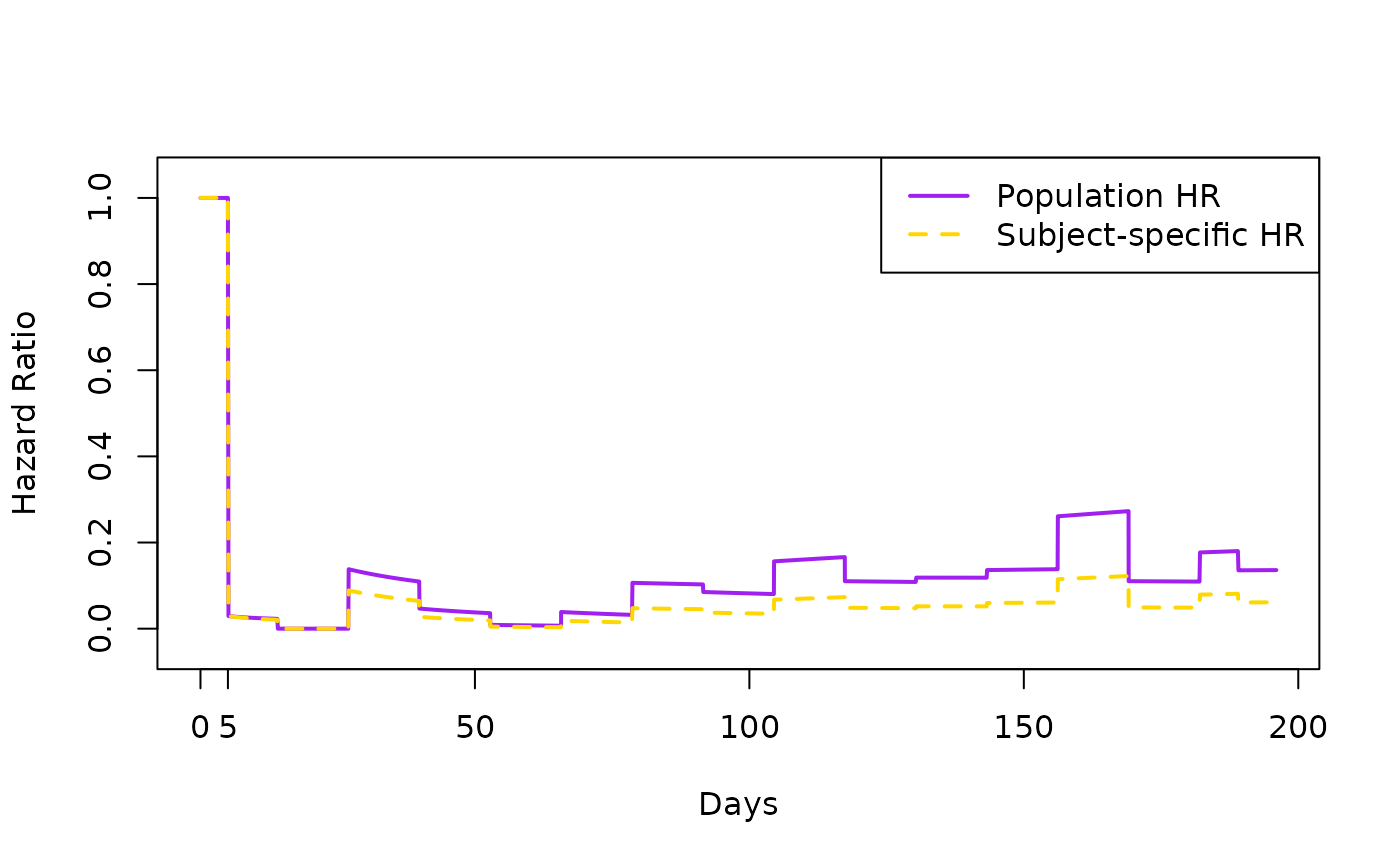
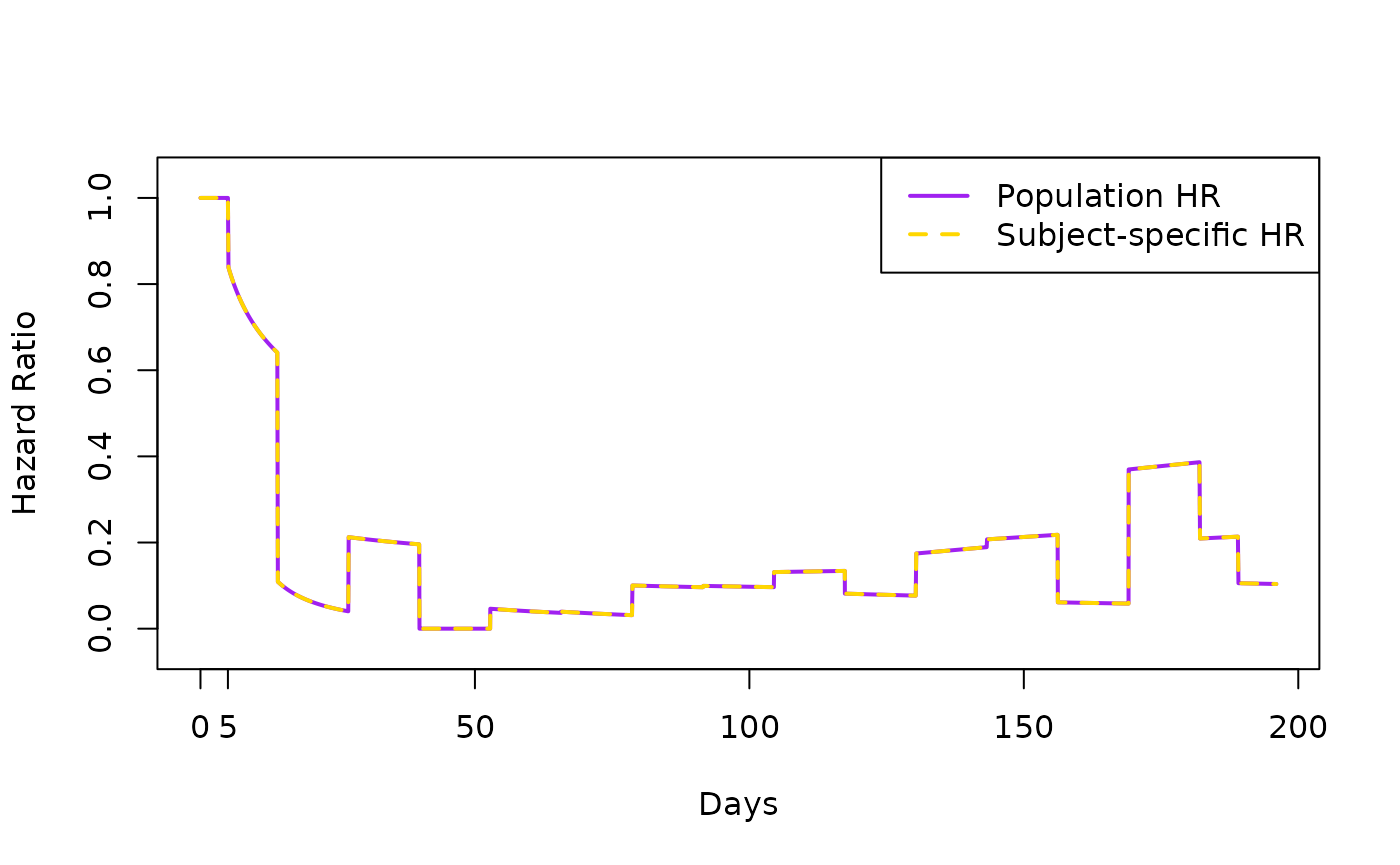
Deploying to gh-pages from @ swihart/mpw@fbb75e37b8437d3f58c3c25b54eb498b8cc61b8f 🚀

Changed region(s): [[0.1536, 0.3121, 0.9214, 0.7491], [0.7064, 0.5931, 0.7986, 0.6243]]

diff --git a/articles/wwps-fay.html b/articles/wwps-fay.html
@@ -74,17 +74,19 @@ Efficacy Estimands for Individual Randomized Field Trials</em>.</p>
 frailty models do not have: that is, the marginal distribution (Weibull)
 is the same as the conditional distribution (also Weibull). This enables
 a strategy of estimating the mpw on the population data without
-specifying an alpha (practically, setting it to 1) and then from there
-one can exactly calculate corresponding conditional models (and HRs, and
-VEs, etc) using
+specifying an
+<math display="inline" xmlns="http://www.w3.org/1998/Math/MathML"><semantics><mi>α</mi><annotation encoding="application/x-tex">\alpha</annotation></semantics></math>
+(this is done in practice by setting <code>alpha=1</code>) and then from
+there one can exactly calculate corresponding conditional models (and
+HRs, and VEs, etc) using
 <math display="inline" xmlns="http://www.w3.org/1998/Math/MathML"><semantics><mfrac><mn>1</mn><mi>α</mi></mfrac><annotation encoding="application/x-tex">\frac{1}{\alpha}</annotation></semantics></math>
 applied to the <em>marginal</em>
 <math display="inline" xmlns="http://www.w3.org/1998/Math/MathML"><semantics><mi>b</mi><annotation encoding="application/x-tex">b</annotation></semantics></math>
 and
 <math display="inline" xmlns="http://www.w3.org/1998/Math/MathML"><semantics><mi>k</mi><annotation encoding="application/x-tex">k</annotation></semantics></math>
 estimates.</p>
-<p>Explicitly, the hazard ratio for an individual
-<math display="inline" xmlns="http://www.w3.org/1998/Math/MathML"><semantics><msub><mi>θ</mi><mi>I</mi></msub><annotation encoding="application/x-tex">\theta_I</annotation></semantics></math>
+<p>Explicitly, the hazard ratio for an individual,
+<math display="inline" xmlns="http://www.w3.org/1998/Math/MathML"><semantics><msub><mi>θ</mi><mi>I</mi></msub><annotation encoding="application/x-tex">\theta_I</annotation></semantics></math>,
 can be produced by:</p>
 <p><math display="block" xmlns="http://www.w3.org/1998/Math/MathML"><semantics><mrow><mfrac><mrow><msubsup><mi>b</mi><mn>1</mn><mrow><mn>1</mn><mi>/</mi><mi>α</mi></mrow></msubsup><mrow><mo stretchy="true" form="prefix">(</mo><msub><mi>k</mi><mn>1</mn></msub><mi>/</mi><mi>α</mi><mo stretchy="true" form="postfix">)</mo></mrow><msup><mi>t</mi><mrow><mrow><mo stretchy="true" form="prefix">(</mo><msub><mi>k</mi><mn>1</mn></msub><mi>/</mi><mi>α</mi><mo stretchy="true" form="postfix">)</mo></mrow><mo>−</mo><mn>1</mn></mrow></msup></mrow><mrow><msubsup><mi>b</mi><mn>0</mn><mrow><mn>1</mn><mi>/</mi><mi>α</mi></mrow></msubsup><mrow><mo stretchy="true" form="prefix">(</mo><msub><mi>k</mi><mn>0</mn></msub><mi>/</mi><mi>α</mi><mo stretchy="true" form="postfix">)</mo></mrow><msup><mi>t</mi><mrow><mrow><mo stretchy="true" form="prefix">(</mo><msub><mi>k</mi><mn>0</mn></msub><mi>/</mi><mi>α</mi><mo stretchy="true" form="postfix">)</mo></mrow><mo>−</mo><mn>1</mn></mrow></msup></mrow></mfrac><mo>=</mo><msub><mi>θ</mi><mi>I</mi></msub></mrow><annotation encoding="application/x-tex">\frac{ b_1^{1/\alpha} (k_1/\alpha) t^{(k_1/\alpha)-1}}{b_0^{1/\alpha} (k_0/\alpha) t^{(k_0/\alpha)-1}} = \theta_I</annotation></semantics></math></p>
 <div class="section level2">
@@ -130,9 +132,11 @@ dots with interpolated, dashed lines.</p>
 <p><img src="wwps-fay_files/figure-html/thomas-data-1.png" width="700"></p>
 <p>Set the <code>h_parm</code> and <code>frailty</code> distribution for
 this example. Beware that H_PARM has different bounds depending on what
-value of FRAILTY is selected.</p>
+value of FRAILTY is selected. For this example, we are going to estimate
+the marginal parameters first and can accomplish this by mitigating the
+effect of alpha, that is, setting the <code>H_PARM=1.00</code>.</p>
 <div class="sourceCode" id="cb2"><pre class="downlit sourceCode r">
-<code class="sourceCode R"><span><span class="va">H_PARM</span> <span class="op">&lt;-</span> <span class="fl">0.72</span></span>
+<code class="sourceCode R"><span><span class="va">H_PARM</span> <span class="op">&lt;-</span> <span class="fl">1.00</span></span>
 <span><span class="va">FRAILTY</span> <span class="op">&lt;-</span> <span class="st">"PS"</span></span></code></pre></div>
 <p>We first consider two knots which will allow us to model each curve
 with three pieces. We set the first piece of each group to be equal so
@@ -144,12 +148,12 @@ to go from then to 90 days after second dose, and the third piece from
 then until the end of the study. We do this by specifying two knot
 values, as below:</p>
 <div class="section level3">
-<h3 id="two-knots">Two knots<a class="anchor" aria-label="anchor" href="#two-knots"></a>
+<h3 id="knot-selection">Knot selection<a class="anchor" aria-label="anchor" href="#knot-selection"></a>
 </h3>
 <div class="sourceCode" id="cb3"><pre class="downlit sourceCode r">
-<code class="sourceCode R"><span><span class="va">tvec.in</span> <span class="op">&lt;-</span> <span class="fu"><a href="https://rdrr.io/r/base/c.html" class="external-link">c</a></span><span class="op">(</span><span class="fl">5</span>, <span class="fl">90</span><span class="op">+</span><span class="fl">21</span><span class="op">)</span></span>
+<code class="sourceCode R"><span><span class="va">tvec.in</span><span class="op">&lt;-</span> <span class="fu"><a href="https://rdrr.io/r/base/c.html" class="external-link">c</a></span><span class="op">(</span><span class="fl">1</span>,<span class="fl">28</span>,<span class="fl">56</span>,<span class="fl">84</span>,<span class="fl">112</span>,<span class="fl">140</span>,<span class="fl">168</span><span class="op">)</span></span>
 <span><span class="va">tvec.in</span></span>
-<span><span class="co">#&gt; [1]   5 111</span></span></code></pre></div>
+<span><span class="co">#&gt; [1]   1  28  56  84 112 140 168</span></span></code></pre></div>
 <div class="section level4">
 <h4 id="two-step-fitting-procedure">Two step fitting procedure<a class="anchor" aria-label="anchor" href="#two-step-fitting-procedure"></a>
 </h4>
@@ -172,14 +176,15 @@ values, as below:</p>
 <span>        control<span class="op">=</span><span class="fu"><a href="https://rdrr.io/r/base/list.html" class="external-link">list</a></span><span class="op">(</span>maxit<span class="op">=</span><span class="fl">1e8</span><span class="op">)</span><span class="op">)</span></span>
 <span><span class="fu"><a href="https://rdrr.io/r/base/print.html" class="external-link">print</a></span><span class="op">(</span><span class="va">plac_fit_F_alpha</span><span class="op">)</span></span>
 <span><span class="co">#&gt; $par</span></span>
-<span><span class="co">#&gt; [1]  -0.8590240 -11.5514302   1.6053115  -0.3700213</span></span>
+<span><span class="co">#&gt; [1]  0.1602199 -9.4498573  0.1816194 -0.6323941  1.1084249 -0.6612064  0.5807145</span></span>
+<span><span class="co">#&gt; [8] -0.8614969  0.2335560</span></span>
 <span><span class="co">#&gt; </span></span>
 <span><span class="co">#&gt; $value</span></span>
-<span><span class="co">#&gt; [1] 1.574351e-06</span></span>
+<span><span class="co">#&gt; [1] 9.918573e-07</span></span>
 <span><span class="co">#&gt; </span></span>
 <span><span class="co">#&gt; $counts</span></span>
 <span><span class="co">#&gt; function gradient </span></span>
-<span><span class="co">#&gt;      167       NA </span></span>
+<span><span class="co">#&gt;      479       NA </span></span>
 <span><span class="co">#&gt; </span></span>
 <span><span class="co">#&gt; $convergence</span></span>
 <span><span class="co">#&gt; [1] 0</span></span>
@@ -215,14 +220,15 @@ same for both groups (i.e. <em>ramp-up time</em>).</p>
 <span>        control<span class="op">=</span><span class="fu"><a href="https://rdrr.io/r/base/list.html" class="external-link">list</a></span><span class="op">(</span>maxit<span class="op">=</span><span class="fl">1e8</span><span class="op">)</span><span class="op">)</span></span>
 <span><span class="fu"><a href="https://rdrr.io/r/base/print.html" class="external-link">print</a></span><span class="op">(</span><span class="va">vacc_fit_F_alpha</span><span class="op">)</span></span>
 <span><span class="co">#&gt; $par</span></span>
-<span><span class="co">#&gt; [1] 0.6274834 0.9321016</span></span>
+<span><span class="co">#&gt; [1] -0.18224579 -0.82329339  0.23464110  1.05260310  0.01773164 -0.06979188</span></span>
+<span><span class="co">#&gt; [7] -0.30021721</span></span>
 <span><span class="co">#&gt; </span></span>
 <span><span class="co">#&gt; $value</span></span>
-<span><span class="co">#&gt; [1] 1.41648e-07</span></span>
+<span><span class="co">#&gt; [1] 6.401134e-08</span></span>
 <span><span class="co">#&gt; </span></span>
 <span><span class="co">#&gt; $counts</span></span>
 <span><span class="co">#&gt; function gradient </span></span>
-<span><span class="co">#&gt;       75       NA </span></span>
+<span><span class="co">#&gt;      436       NA </span></span>
 <span><span class="co">#&gt; </span></span>
 <span><span class="co">#&gt; $convergence</span></span>
 <span><span class="co">#&gt; [1] 0</span></span>
@@ -278,21 +284,54 @@ denote knot placement.</p>
 <span><span class="op">)</span></span>
 <span><span class="fu"><a href="https://rdrr.io/r/graphics/axis.html" class="external-link">axis</a></span><span class="op">(</span><span class="fl">1</span>, at<span class="op">=</span><span class="fu"><a href="https://rdrr.io/r/base/c.html" class="external-link">c</a></span><span class="op">(</span><span class="va">tvec.in</span><span class="op">[</span><span class="fl">1</span><span class="op">]</span><span class="op">)</span><span class="op">)</span></span></code></pre></div>
 <p><img src="wwps-fay_files/figure-html/alpha-02-knots-popavg-dist-1.png" width="700"></p>
-<p>Note from Days 0 to 5 the curves are the same. Over this range the HR
+<p>Note from Days 0 to 1 the curves are the same. Over this range the HR
 will be 1. Otherwise the fit looks okay – some points are below their
 line and some are above.</p>
-</div>
-<div class="section level4">
-<h4 id="plot-population-avg-hr">Plot population avg HR<a class="anchor" aria-label="anchor" href="#plot-population-avg-hr"></a>
-</h4>
-<ul>
-<li>uses parameters from two step fitting procedure</li>
-<li>HR(0) = 1</li>
-</ul>
+<div class="sourceCode" id="cb7"><pre class="downlit sourceCode r">
+<code class="sourceCode R"><span><span class="va">COL</span> <span class="op">&lt;-</span> <span class="fu"><a href="https://rdrr.io/r/base/c.html" class="external-link">c</a></span><span class="op">(</span><span class="st">"black"</span>,<span class="st">"grey"</span><span class="op">)</span></span>
+<span><span class="va">LTY</span> <span class="op">&lt;-</span> <span class="fu"><a href="https://rdrr.io/r/base/c.html" class="external-link">c</a></span><span class="op">(</span><span class="fl">1</span>,<span class="fl">1</span><span class="op">)</span></span>
+<span><span class="va">LWD</span> <span class="op">&lt;-</span> <span class="fu"><a href="https://rdrr.io/r/base/c.html" class="external-link">c</a></span><span class="op">(</span><span class="fl">2</span>,<span class="fl">6</span><span class="op">)</span></span>
+<span><span class="fu"><a href="https://rdrr.io/r/graphics/plot.default.html" class="external-link">plot</a></span><span class="op">(</span><span class="cn">NA</span>,<span class="cn">NA</span>,, type<span class="op">=</span><span class="st">"l"</span>, col<span class="op">=</span><span class="st">"black"</span>, lwd<span class="op">=</span><span class="fl">2</span>, ylim<span class="op">=</span><span class="fu"><a href="https://rdrr.io/r/base/c.html" class="external-link">c</a></span><span class="op">(</span><span class="fl">0</span>,<span class="fl">0.08</span><span class="op">)</span>, ylab<span class="op">=</span><span class="st">"Cumulative Incidence"</span>,xlab<span class="op">=</span><span class="st">"Day since Receipt of First Dose"</span>, </span>
+<span>        main<span class="op">=</span><span class="fu"><a href="https://rdrr.io/r/base/c.html" class="external-link">c</a></span><span class="op">(</span><span class="st">"Specified Knots: "</span>,<span class="fu"><a href="https://rdrr.io/r/base/paste.html" class="external-link">paste</a></span><span class="op">(</span><span class="fu"><a href="https://rdrr.io/r/base/Round.html" class="external-link">round</a></span><span class="op">(</span><span class="va">tvec.in</span>,<span class="fl">1</span><span class="op">)</span>, collapse<span class="op">=</span><span class="st">", "</span><span class="op">)</span><span class="op">)</span>, xlim<span class="op">=</span><span class="fu"><a href="https://rdrr.io/r/base/range.html" class="external-link">range</a></span><span class="op">(</span><span class="va">time</span><span class="op">)</span><span class="op">)</span></span>
+<span></span>
+<span></span>
+<span><span class="va">plac.dist</span> <span class="op">&lt;-</span> <span class="fu"><a href="../reference/popavg_dist.html">popavg_dist</a></span><span class="op">(</span>      x <span class="op">=</span> <span class="va">time.dist</span>, </span>
+<span>                           knots <span class="op">=</span> <span class="va">tvec.in</span>,</span>
+<span>                           logk0 <span class="op">=</span> <span class="va">logk0p</span>,</span>
+<span>                              g0 <span class="op">=</span> <span class="va">g0p</span>,</span>
+<span>                       delta_vec <span class="op">=</span> <span class="va">delta_vec_p</span>,</span>
+<span>                          h_parm <span class="op">=</span> <span class="va">H_PARM</span>,</span>
+<span>                         frailty <span class="op">=</span> <span class="va">FRAILTY</span><span class="op">)</span></span>
+<span></span>
+<span><span class="va">vacc.dist</span> <span class="op">&lt;-</span> <span class="fu"><a href="../reference/popavg_dist.html">popavg_dist</a></span><span class="op">(</span>      x <span class="op">=</span> <span class="va">time.dist</span>, </span>
+<span>                           knots <span class="op">=</span> <span class="va">tvec.in</span>,</span>
+<span>                           logk0 <span class="op">=</span> <span class="va">logk0v</span>,</span>
+<span>                              g0 <span class="op">=</span> <span class="va">g0v</span>,</span>
+<span>                       delta_vec <span class="op">=</span> <span class="va">delta_vec_v</span>,</span>
+<span>                          h_parm <span class="op">=</span> <span class="va">H_PARM</span>,</span>
+<span>                         frailty <span class="op">=</span> <span class="va">FRAILTY</span><span class="op">)</span></span>
+<span></span>
+<span></span>
+<span></span>
+<span>  <span class="fu"><a href="https://rdrr.io/r/graphics/lines.html" class="external-link">lines</a></span><span class="op">(</span><span class="fu"><a href="https://rdrr.io/r/base/c.html" class="external-link">c</a></span><span class="op">(</span><span class="fl">0</span>,<span class="va">time.dist</span><span class="op">)</span>, <span class="fu"><a href="https://rdrr.io/r/base/c.html" class="external-link">c</a></span><span class="op">(</span><span class="fl">0</span>,<span class="va">vacc.dist</span><span class="op">)</span>,  col<span class="op">=</span><span class="va">COL</span><span class="op">[</span><span class="fl">2</span><span class="op">]</span>,lty<span class="op">=</span><span class="va">LTY</span><span class="op">[</span><span class="fl">2</span><span class="op">]</span>,lwd<span class="op">=</span><span class="va">LWD</span><span class="op">[</span><span class="fl">2</span><span class="op">]</span><span class="op">)</span></span>
+<span></span>
+<span></span>
+<span></span>
+<span><span class="fu"><a href="https://rdrr.io/r/graphics/points.html" class="external-link">points</a></span><span class="op">(</span><span class="va">time</span>, <span class="va">F1</span>, col<span class="op">=</span><span class="st">"blue"</span><span class="op">)</span></span>
+<span><span class="fu"><a href="https://rdrr.io/r/graphics/abline.html" class="external-link">abline</a></span><span class="op">(</span>v<span class="op">=</span><span class="va">tvec.in</span>, lty<span class="op">=</span><span class="fl">2</span>, col<span class="op">=</span><span class="st">"grey"</span><span class="op">)</span></span>
+<span></span>
+<span><span class="fu"><a href="https://rdrr.io/r/graphics/points.html" class="external-link">points</a></span><span class="op">(</span><span class="va">time</span>, <span class="va">F0</span>, col<span class="op">=</span><span class="st">"black"</span><span class="op">)</span></span>
+<span></span>
+<span>  <span class="fu"><a href="https://rdrr.io/r/graphics/lines.html" class="external-link">lines</a></span><span class="op">(</span><span class="fu"><a href="https://rdrr.io/r/base/c.html" class="external-link">c</a></span><span class="op">(</span><span class="fl">0</span>,<span class="va">time.dist</span><span class="op">)</span>, <span class="fu"><a href="https://rdrr.io/r/base/c.html" class="external-link">c</a></span><span class="op">(</span><span class="fl">0</span>,<span class="va">plac.dist</span><span class="op">)</span>,  col<span class="op">=</span><span class="va">COL</span><span class="op">[</span><span class="fl">1</span><span class="op">]</span>,lty<span class="op">=</span><span class="va">LTY</span><span class="op">[</span><span class="fl">1</span><span class="op">]</span>,lwd<span class="op">=</span><span class="va">LWD</span><span class="op">[</span><span class="fl">1</span><span class="op">]</span><span class="op">)</span></span>
+<span><span class="fu"><a href="https://rdrr.io/r/graphics/legend.html" class="external-link">legend</a></span><span class="op">(</span><span class="st">"topleft"</span>,legend<span class="op">=</span><span class="fu"><a href="https://rdrr.io/r/base/c.html" class="external-link">c</a></span><span class="op">(</span><span class="fu"><a href="https://rdrr.io/r/base/expression.html" class="external-link">expression</a></span><span class="op">(</span><span class="cn">F</span><span class="op">[</span><span class="fl">0</span><span class="op">]</span><span class="op">(</span><span class="va">t</span><span class="op">)</span><span class="op">)</span>,<span class="fu"><a href="https://rdrr.io/r/base/expression.html" class="external-link">expression</a></span><span class="op">(</span><span class="cn">F</span><span class="op">[</span><span class="fl">1</span><span class="op">]</span><span class="op">(</span><span class="va">t</span><span class="op">)</span><span class="op">)</span><span class="op">)</span>,col<span class="op">=</span><span class="va">COL</span>,</span>
+<span>       lty<span class="op">=</span><span class="va">LTY</span>,lwd<span class="op">=</span><span class="va">LWD</span><span class="op">)</span></span></code></pre></div>
+<p><img src="wwps-fay_files/figure-html/unnamed-chunk-3-1.png" width="700">
+### Plot population avg HR * uses parameters from two step fitting
+procedure * HR(0) = 1</p>
 <p>We use the parameters of the previous fits to estimate the population
 average hazard, which we can fit with <code><a href="../reference/popavg_haz.html">mpw::popavg_haz()</a></code>. We
 adjust the time input so that the first element is just above 0.</p>
-<div class="sourceCode" id="cb7"><pre class="downlit sourceCode r">
+<div class="sourceCode" id="cb8"><pre class="downlit sourceCode r">
 <code class="sourceCode R"><span><span class="va">time.haz</span> <span class="op">&lt;-</span> <span class="fu"><a href="https://rdrr.io/r/base/c.html" class="external-link">c</a></span><span class="op">(</span><span class="fl">1e-4</span>, <span class="va">time.dist</span><span class="op">[</span><span class="op">-</span><span class="fl">1</span><span class="op">]</span><span class="op">)</span></span>
 <span><span class="va">plac.haz</span> <span class="op">&lt;-</span> <span class="fu"><a href="../reference/popavg_haz.html">popavg_haz</a></span><span class="op">(</span>      x <span class="op">=</span> <span class="va">time.haz</span>, </span>
 <span>                           knots <span class="op">=</span> <span class="va">tvec.in</span>,</span>
@@ -330,7 +369,7 @@ the inputs for the b,k, and delta pieces and models the subject-specific
 (aka conditional) hazard. Doing this for the placebo group, then the
 vaccine group and dividing them gives the subject-specific hazard ratio
 (HR).</p>
-<div class="sourceCode" id="cb8"><pre class="downlit sourceCode r">
+<div class="sourceCode" id="cb9"><pre class="downlit sourceCode r">
 <code class="sourceCode R"><span><span class="va">plac.haz.ss</span> <span class="op">&lt;-</span> <span class="fu"><a href="../reference/subjspec_haz.html">subjspec_haz</a></span><span class="op">(</span>      x <span class="op">=</span> <span class="va">time.haz</span>, </span>
 <span>                           knots <span class="op">=</span> <span class="va">tvec.in</span>,</span>
 <span>                           logk0 <span class="op">=</span> <span class="va">logk0p</span>,</span>
@@ -356,9 +395,51 @@ vaccine group and dividing them gives the subject-specific hazard ratio
 <span>       lwd<span class="op">=</span><span class="fl">2</span></span>
 <span><span class="op">)</span></span></code></pre></div>
 <p><img src="wwps-fay_files/figure-html/alpha-02-knots-subjspec-haz-1.png" width="700"></p>
-<p>The plot above shows that for a positive-stable frailty with
+<div class="sourceCode" id="cb10"><pre class="downlit sourceCode r">
+<code class="sourceCode R"><span><span class="va">COL</span><span class="op">&lt;-</span> <span class="fu"><a href="https://rdrr.io/r/grDevices/gray.html" class="external-link">gray</a></span><span class="op">(</span><span class="fu"><a href="https://rdrr.io/r/base/c.html" class="external-link">c</a></span><span class="op">(</span><span class="fl">0.7</span>,<span class="fl">.5</span>,<span class="fl">0</span><span class="op">)</span><span class="op">)</span></span>
+<span><span class="va">LTY</span><span class="op">&lt;-</span><span class="fu"><a href="https://rdrr.io/r/base/c.html" class="external-link">c</a></span><span class="op">(</span><span class="fl">1</span>,<span class="fl">2</span>,<span class="fl">3</span><span class="op">)</span></span>
+<span><span class="va">LWD</span><span class="op">&lt;-</span><span class="fu"><a href="https://rdrr.io/r/base/c.html" class="external-link">c</a></span><span class="op">(</span><span class="fl">6</span>,<span class="fl">4</span>,<span class="fl">2</span><span class="op">)</span></span>
+<span></span>
+<span><span class="fu"><a href="https://rdrr.io/r/graphics/plot.default.html" class="external-link">plot</a></span><span class="op">(</span><span class="cn">NA</span>,<span class="cn">NA</span>,, type<span class="op">=</span><span class="st">"l"</span>, col<span class="op">=</span><span class="st">"black"</span>, lwd<span class="op">=</span><span class="fl">2</span>, ylim<span class="op">=</span><span class="fu"><a href="https://rdrr.io/r/base/c.html" class="external-link">c</a></span><span class="op">(</span><span class="fl">0</span>,<span class="fl">1</span><span class="op">)</span>, ylab<span class="op">=</span><span class="fu"><a href="https://rdrr.io/r/base/expression.html" class="external-link">expression</a></span><span class="op">(</span><span class="va">VE</span><span class="op">[</span><span class="va">h</span><span class="op">]</span><span class="op">)</span>,xlab<span class="op">=</span><span class="st">"Days since Receipt of First Dose"</span>, main<span class="op">=</span><span class="fu"><a href="https://rdrr.io/r/base/c.html" class="external-link">c</a></span><span class="op">(</span><span class="st">"Specified knots: "</span>,<span class="fu"><a href="https://rdrr.io/r/base/paste.html" class="external-link">paste</a></span><span class="op">(</span><span class="fu"><a href="https://rdrr.io/r/base/Round.html" class="external-link">round</a></span><span class="op">(</span><span class="va">tvec.in</span>,<span class="fl">1</span><span class="op">)</span>, collapse<span class="op">=</span><span class="st">", "</span><span class="op">)</span><span class="op">)</span>, xlim<span class="op">=</span><span class="fu"><a href="https://rdrr.io/r/base/range.html" class="external-link">range</a></span><span class="op">(</span><span class="va">time</span><span class="op">)</span><span class="op">)</span></span>
+<span></span>
+<span><span class="co">##set alpha.vec here to plot different conditionals</span></span>
+<span><span class="va">alpha.vec</span> <span class="op">&lt;-</span> <span class="fu"><a href="https://rdrr.io/r/base/c.html" class="external-link">c</a></span><span class="op">(</span><span class="fl">0.4</span>,<span class="fl">0.7</span>,<span class="fl">0.99</span><span class="op">)</span></span>
+<span></span>
+<span><span class="co">## now plot</span></span>
+<span><span class="kw">for</span><span class="op">(</span><span class="va">i</span> <span class="kw">in</span> <span class="fl">1</span><span class="op">:</span><span class="fu"><a href="https://rdrr.io/r/base/length.html" class="external-link">length</a></span><span class="op">(</span><span class="va">alpha.vec</span><span class="op">)</span><span class="op">)</span><span class="op">{</span></span>
+<span>  </span>
+<span>  </span>
+<span>  <span class="va">a.in</span> <span class="op">&lt;-</span> <span class="va">alpha.vec</span><span class="op">[</span><span class="va">i</span><span class="op">]</span></span>
+<span>  </span>
+<span></span>
+<span><span class="va">plac.haz</span> <span class="op">&lt;-</span> <span class="fu"><a href="../reference/popavg_haz.html">popavg_haz</a></span><span class="op">(</span>      x <span class="op">=</span> <span class="va">time.haz</span>, </span>
+<span>                           knots <span class="op">=</span> <span class="va">tvec.in</span>,</span>
+<span>                           logk0 <span class="op">=</span> <span class="va">logk0p</span>,</span>
+<span>                              g0 <span class="op">=</span> <span class="va">g0p</span>,</span>
+<span>                       delta_vec <span class="op">=</span> <span class="va">delta_vec_p</span>,</span>
+<span>                          h_parm <span class="op">=</span> <span class="fl">1</span><span class="op">/</span><span class="va">a.in</span>,</span>
+<span>                         frailty <span class="op">=</span> <span class="va">FRAILTY</span><span class="op">)</span></span>
+<span></span>
+<span><span class="va">vacc.haz</span> <span class="op">&lt;-</span> <span class="fu"><a href="../reference/popavg_haz.html">popavg_haz</a></span><span class="op">(</span>      x <span class="op">=</span> <span class="va">time.haz</span>, </span>
+<span>                           knots <span class="op">=</span> <span class="va">tvec.in</span>,</span>
+<span>                           logk0 <span class="op">=</span> <span class="va">logk0v</span>,</span>
+<span>                              g0 <span class="op">=</span> <span class="va">g0v</span>,</span>
+<span>                       delta_vec <span class="op">=</span> <span class="va">delta_vec_v</span>,</span>
+<span>                          h_parm <span class="op">=</span> <span class="fl">1</span><span class="op">/</span><span class="va">a.in</span>,</span>
+<span>                         frailty <span class="op">=</span> <span class="va">FRAILTY</span><span class="op">)</span></span>
+<span></span>
+<span></span>
+<span></span>
+<span><span class="fu"><a href="https://rdrr.io/r/graphics/lines.html" class="external-link">lines</a></span><span class="op">(</span><span class="va">time.haz</span>, <span class="fl">1</span><span class="op">-</span><span class="va">vacc.haz</span><span class="op">/</span><span class="va">plac.haz</span>, col<span class="op">=</span><span class="va">COL</span><span class="op">[</span><span class="va">i</span><span class="op">]</span>,lty<span class="op">=</span><span class="va">LTY</span><span class="op">[</span><span class="va">i</span><span class="op">]</span>,lwd<span class="op">=</span><span class="va">LWD</span><span class="op">[</span><span class="va">i</span><span class="op">]</span><span class="op">)</span></span>
+<span></span>
+<span><span class="fu"><a href="https://rdrr.io/r/graphics/abline.html" class="external-link">abline</a></span><span class="op">(</span>v<span class="op">=</span><span class="va">tvec.in</span>, lty<span class="op">=</span><span class="fl">2</span>, col<span class="op">=</span><span class="st">"grey"</span><span class="op">)</span></span>
+<span></span>
+<span><span class="op">}</span></span>
+<span><span class="fu"><a href="https://rdrr.io/r/graphics/legend.html" class="external-link">legend</a></span><span class="op">(</span><span class="st">"bottomright"</span>,legend<span class="op">=</span><span class="fu"><a href="https://rdrr.io/r/base/paste.html" class="external-link">paste0</a></span><span class="op">(</span><span class="st">"alpha="</span>,<span class="va">alpha.vec</span><span class="op">)</span>,lty<span class="op">=</span><span class="va">LTY</span>,lwd<span class="op">=</span><span class="va">LWD</span>,col<span class="op">=</span><span class="va">COL</span><span class="op">)</span></span></code></pre></div>
+<p><img src="wwps-fay_files/figure-html/unnamed-chunk-4-1.png" width="700">
+The plot above shows that for a positive-stable frailty with
 <math display="inline" xmlns="http://www.w3.org/1998/Math/MathML"><semantics><mi>α</mi><annotation encoding="application/x-tex">\alpha</annotation></semantics></math>
-= 0.72 the subject-specific HR is flatter and lower than the population
+= 1 the subject-specific HR is flatter and lower than the population
 average HR.</p>
 </div>
 </div>
@@ -366,7 +447,7 @@ average HR.</p>
 <h3 id="sixteen-knots">Sixteen knots<a class="anchor" aria-label="anchor" href="#sixteen-knots"></a>
 </h3>
 <p>By increasing the knots, we get a “higher resolution” fit.</p>
-<div class="sourceCode" id="cb9"><pre class="downlit sourceCode r">
+<div class="sourceCode" id="cb11"><pre class="downlit sourceCode r">
 <code class="sourceCode R"><span><span class="va">tvec.in</span> <span class="op">&lt;-</span> <span class="fu"><a href="https://rdrr.io/r/base/c.html" class="external-link">c</a></span><span class="op">(</span><span class="fl">5</span>, <span class="fu"><a href="https://rdrr.io/r/base/seq.html" class="external-link">seq</a></span><span class="op">(</span><span class="fl">14</span>,<span class="fu"><a href="https://rdrr.io/r/base/Extremes.html" class="external-link">max</a></span><span class="op">(</span><span class="va">time</span><span class="op">)</span><span class="op">-</span><span class="fl">14</span>,length.out<span class="op">=</span><span class="fl">14</span><span class="op">)</span>,<span class="fu"><a href="https://rdrr.io/r/base/Extremes.html" class="external-link">max</a></span><span class="op">(</span><span class="va">time</span><span class="op">)</span><span class="op">-</span><span class="fl">7</span><span class="op">)</span></span>
 <span><span class="va">tvec.in</span></span>
 <span><span class="co">#&gt;  [1]   5.00000  14.00000  26.92308  39.84615  52.76923  65.69231  78.61538</span></span>
@@ -378,7 +459,7 @@ average HR.</p>
 <div class="section level5">
 <h5 id="fit-for-placebo-group-1">1. Fit for placebo group<a class="anchor" aria-label="anchor" href="#fit-for-placebo-group-1"></a>
 </h5>
-<div class="sourceCode" id="cb10"><pre class="downlit sourceCode r">
+<div class="sourceCode" id="cb12"><pre class="downlit sourceCode r">
 <code class="sourceCode R"><span><span class="va">fit_F_alpha</span> <span class="op">&lt;-</span> <span class="kw">function</span><span class="op">(</span><span class="va">x</span><span class="op">)</span><span class="op">{</span><span class="fu"><a href="https://rdrr.io/r/base/mean.html" class="external-link">mean</a></span><span class="op">(</span><span class="op">(</span><span class="fu"><a href="../reference/popavg_dist.html">popavg_dist</a></span><span class="op">(</span><span class="va">time</span>, </span>
 <span>                                            knots<span class="op">=</span> <span class="va">tvec.in</span>, </span>
 <span>                                            logk0<span class="op">=</span><span class="va">x</span><span class="op">[</span><span class="fl">1</span><span class="op">]</span>, </span>
@@ -394,17 +475,17 @@ average HR.</p>
 <span>        control<span class="op">=</span><span class="fu"><a href="https://rdrr.io/r/base/list.html" class="external-link">list</a></span><span class="op">(</span>maxit<span class="op">=</span><span class="fl">1e8</span><span class="op">)</span><span class="op">)</span></span>
 <span><span class="fu"><a href="https://rdrr.io/r/base/print.html" class="external-link">print</a></span><span class="op">(</span><span class="va">plac_fit_F_alpha</span><span class="op">)</span></span>
 <span><span class="co">#&gt; $par</span></span>
-<span><span class="co">#&gt;  [1]  -0.19809428 -10.00290490  -0.46528979   1.50975780  -0.41049204</span></span>
-<span><span class="co">#&gt;  [6]   0.13659323   0.10835991   0.26344501   0.18239172  -0.08269246</span></span>
-<span><span class="co">#&gt; [11]  -0.07470972   0.19303094   0.05622029  -0.55575772  -0.99909140</span></span>
-<span><span class="co">#&gt; [16]   0.53537197   0.38629201   0.88779139</span></span>
+<span><span class="co">#&gt;  [1]   0.38971930 -10.32381630   0.21859730   0.10018897  -0.90797553</span></span>
+<span><span class="co">#&gt;  [6]   0.01855282   0.48054002   0.30894982  -0.32833967  -0.03767899</span></span>
+<span><span class="co">#&gt; [11]   0.06950149   0.40359349  -0.25004062  -0.72231152   0.35355534</span></span>
+<span><span class="co">#&gt; [16]  -0.88585346   0.57072242   1.75844956</span></span>
 <span><span class="co">#&gt; </span></span>
 <span><span class="co">#&gt; $value</span></span>
-<span><span class="co">#&gt; [1] 2.366405e-07</span></span>
+<span><span class="co">#&gt; [1] 4.527595e-07</span></span>
 <span><span class="co">#&gt; </span></span>
 <span><span class="co">#&gt; $counts</span></span>
 <span><span class="co">#&gt; function gradient </span></span>
-<span><span class="co">#&gt;      909       NA </span></span>
+<span><span class="co">#&gt;      961       NA </span></span>
 <span><span class="co">#&gt; </span></span>
 <span><span class="co">#&gt; $convergence</span></span>
 <span><span class="co">#&gt; [1] 0</span></span>
@@ -424,7 +505,7 @@ that control the first (leftmost) piece for the placebo group and use
 them for <code>logk0v</code> and <code>g0v</code> when estimating the
 pieces for the vaccine group. This forces the first pieces to be the
 same for both groups (i.e. <em>ramp-up time</em>).</p>
-<div class="sourceCode" id="cb11"><pre class="downlit sourceCode r">
+<div class="sourceCode" id="cb13"><pre class="downlit sourceCode r">
 <code class="sourceCode R"><span><span class="va">fit_F_alpha</span> <span class="op">&lt;-</span> <span class="kw">function</span><span class="op">(</span><span class="va">x</span><span class="op">)</span><span class="op">{</span><span class="fu"><a href="https://rdrr.io/r/base/mean.html" class="external-link">mean</a></span><span class="op">(</span><span class="op">(</span><span class="fu"><a href="../reference/popavg_dist.html">popavg_dist</a></span><span class="op">(</span><span class="va">time</span>, </span>
 <span>                                            knots<span class="op">=</span> <span class="va">tvec.in</span>, </span>
 <span>                                            logk0<span class="op">=</span><span class="va">logk0p</span>, </span>
@@ -440,16 +521,16 @@ same for both groups (i.e. <em>ramp-up time</em>).</p>
 <span>        control<span class="op">=</span><span class="fu"><a href="https://rdrr.io/r/base/list.html" class="external-link">list</a></span><span class="op">(</span>maxit<span class="op">=</span><span class="fl">1e8</span><span class="op">)</span><span class="op">)</span></span>
 <span><span class="fu"><a href="https://rdrr.io/r/base/print.html" class="external-link">print</a></span><span class="op">(</span><span class="va">vacc_fit_F_alpha</span><span class="op">)</span></span>
 <span><span class="co">#&gt; $par</span></span>
-<span><span class="co">#&gt;  [1] -0.80982557 -0.01045652  0.62457154 -0.33277056 -0.21486434  0.42390586</span></span>
-<span><span class="co">#&gt;  [7]  1.31843225 -0.36908115  1.26785248 -0.74096065  0.23847180 -0.30173673</span></span>
-<span><span class="co">#&gt; [13] -0.44639190 -0.40910808  1.19813727  0.38037584</span></span>
+<span><span class="co">#&gt;  [1] -0.04749932 -1.16919871  0.41743334 -0.67726821  0.32277165  0.10154916</span></span>
+<span><span class="co">#&gt;  [7]  0.66894905  0.00454534  0.47711470 -0.34281844  1.18102783 -0.99981096</span></span>
+<span><span class="co">#&gt; [13] -0.84782755  0.33776911  0.52262002  0.70567563</span></span>
 <span><span class="co">#&gt; </span></span>
 <span><span class="co">#&gt; $value</span></span>
-<span><span class="co">#&gt; [1] 1.488447e-08</span></span>
+<span><span class="co">#&gt; [1] 1.469913e-08</span></span>
 <span><span class="co">#&gt; </span></span>
 <span><span class="co">#&gt; $counts</span></span>
 <span><span class="co">#&gt; function gradient </span></span>
-<span><span class="co">#&gt;     2483       NA </span></span>
+<span><span class="co">#&gt;     2369       NA </span></span>
 <span><span class="co">#&gt; </span></span>
 <span><span class="co">#&gt; $convergence</span></span>
 <span><span class="co">#&gt; [1] 0</span></span>
@@ -471,7 +552,7 @@ same for both groups (i.e. <em>ramp-up time</em>).</p>
 <p>We use the knots and the original time in <code>time.dist</code> to
 do a quick check of the fit. We put vertical dashed lines in the plot to
 denote knot placement.</p>
-<div class="sourceCode" id="cb12"><pre class="downlit sourceCode r">
+<div class="sourceCode" id="cb14"><pre class="downlit sourceCode r">
 <code class="sourceCode R"><span><span class="va">time.dist</span> <span class="op">&lt;-</span> <span class="fu"><a href="https://rdrr.io/r/base/sort.html" class="external-link">sort</a></span><span class="op">(</span><span class="fu"><a href="https://rdrr.io/r/base/c.html" class="external-link">c</a></span><span class="op">(</span><span class="fu"><a href="https://rdrr.io/r/base/seq.html" class="external-link">seq</a></span><span class="op">(</span><span class="fu"><a href="https://rdrr.io/r/base/Extremes.html" class="external-link">min</a></span><span class="op">(</span><span class="fu"><a href="https://rdrr.io/r/base/c.html" class="external-link">c</a></span><span class="op">(</span><span class="va">time</span>, <span class="va">tvec.in</span><span class="op">)</span><span class="op">)</span>, </span>
 <span>                        <span class="fu"><a href="https://rdrr.io/r/base/Extremes.html" class="external-link">max</a></span><span class="op">(</span><span class="fu"><a href="https://rdrr.io/r/base/c.html" class="external-link">c</a></span><span class="op">(</span><span class="va">time</span>, <span class="va">tvec.in</span><span class="op">)</span><span class="op">)</span>, <span class="fl">0.1</span><span class="op">)</span>,</span>
 <span>                    <span class="va">tvec.in</span><span class="op">)</span></span>
@@ -509,7 +590,7 @@ denote knot placement.</p>
 knot example, the fit is much improved.</p>
 </div>
 <div class="section level4">
-<h4 id="plot-population-avg-hr-1">Plot population avg HR<a class="anchor" aria-label="anchor" href="#plot-population-avg-hr-1"></a>
+<h4 id="plot-population-avg-hr">Plot population avg HR<a class="anchor" aria-label="anchor" href="#plot-population-avg-hr"></a>
 </h4>
 <ul>
 <li>uses parameters from two step fitting procedure</li>
@@ -518,7 +599,7 @@ knot example, the fit is much improved.</p>
 <p>We use the parameters of the previous fits to estimate the population
 average hazard, which we can fit with <code><a href="../reference/popavg_haz.html">mpw::popavg_haz()</a></code>. We
 adjust the time input so that the first element is just above 0.</p>
-<div class="sourceCode" id="cb13"><pre class="downlit sourceCode r">
+<div class="sourceCode" id="cb15"><pre class="downlit sourceCode r">
 <code class="sourceCode R"><span><span class="va">time.haz</span> <span class="op">&lt;-</span> <span class="fu"><a href="https://rdrr.io/r/base/c.html" class="external-link">c</a></span><span class="op">(</span><span class="fl">1e-4</span>, <span class="va">time.dist</span><span class="op">[</span><span class="op">-</span><span class="fl">1</span><span class="op">]</span><span class="op">)</span></span>
 <span><span class="va">plac.haz</span> <span class="op">&lt;-</span> <span class="fu"><a href="../reference/popavg_haz.html">popavg_haz</a></span><span class="op">(</span>      x <span class="op">=</span> <span class="va">time.haz</span>, </span>
 <span>                           knots <span class="op">=</span> <span class="va">tvec.in</span>,</span>
@@ -555,7 +636,7 @@ the inputs for the b,k, and delta pieces and models the subject-specific
 (aka conditional) hazard. Doing this for the placebo group, then the
 vaccine group and dividing them gives the subject-specific hazard ratio
 (HR).</p>
-<div class="sourceCode" id="cb14"><pre class="downlit sourceCode r">
+<div class="sourceCode" id="cb16"><pre class="downlit sourceCode r">
 <code class="sourceCode R"><span><span class="va">plac.haz.ss</span> <span class="op">&lt;-</span> <span class="fu"><a href="../reference/subjspec_haz.html">subjspec_haz</a></span><span class="op">(</span>      x <span class="op">=</span> <span class="va">time.haz</span>, </span>
 <span>                           knots <span class="op">=</span> <span class="va">tvec.in</span>,</span>
 <span>                           logk0 <span class="op">=</span> <span class="va">logk0p</span>,</span>
@@ -583,7 +664,7 @@ vaccine group and dividing them gives the subject-specific hazard ratio
 <p><img src="wwps-fay_files/figure-html/alpha-16-knots-subjspec-haz-1.png" width="700"></p>
 <p>The plot above shows that for a positive-stable frailty with
 <math display="inline" xmlns="http://www.w3.org/1998/Math/MathML"><semantics><mi>α</mi><annotation encoding="application/x-tex">\alpha</annotation></semantics></math>
-= 0.72 the subject-specific HR is flatter and lower than the population
+= 1 the subject-specific HR is flatter and lower than the population
 average HR.</p>
 </div>
 </div>
